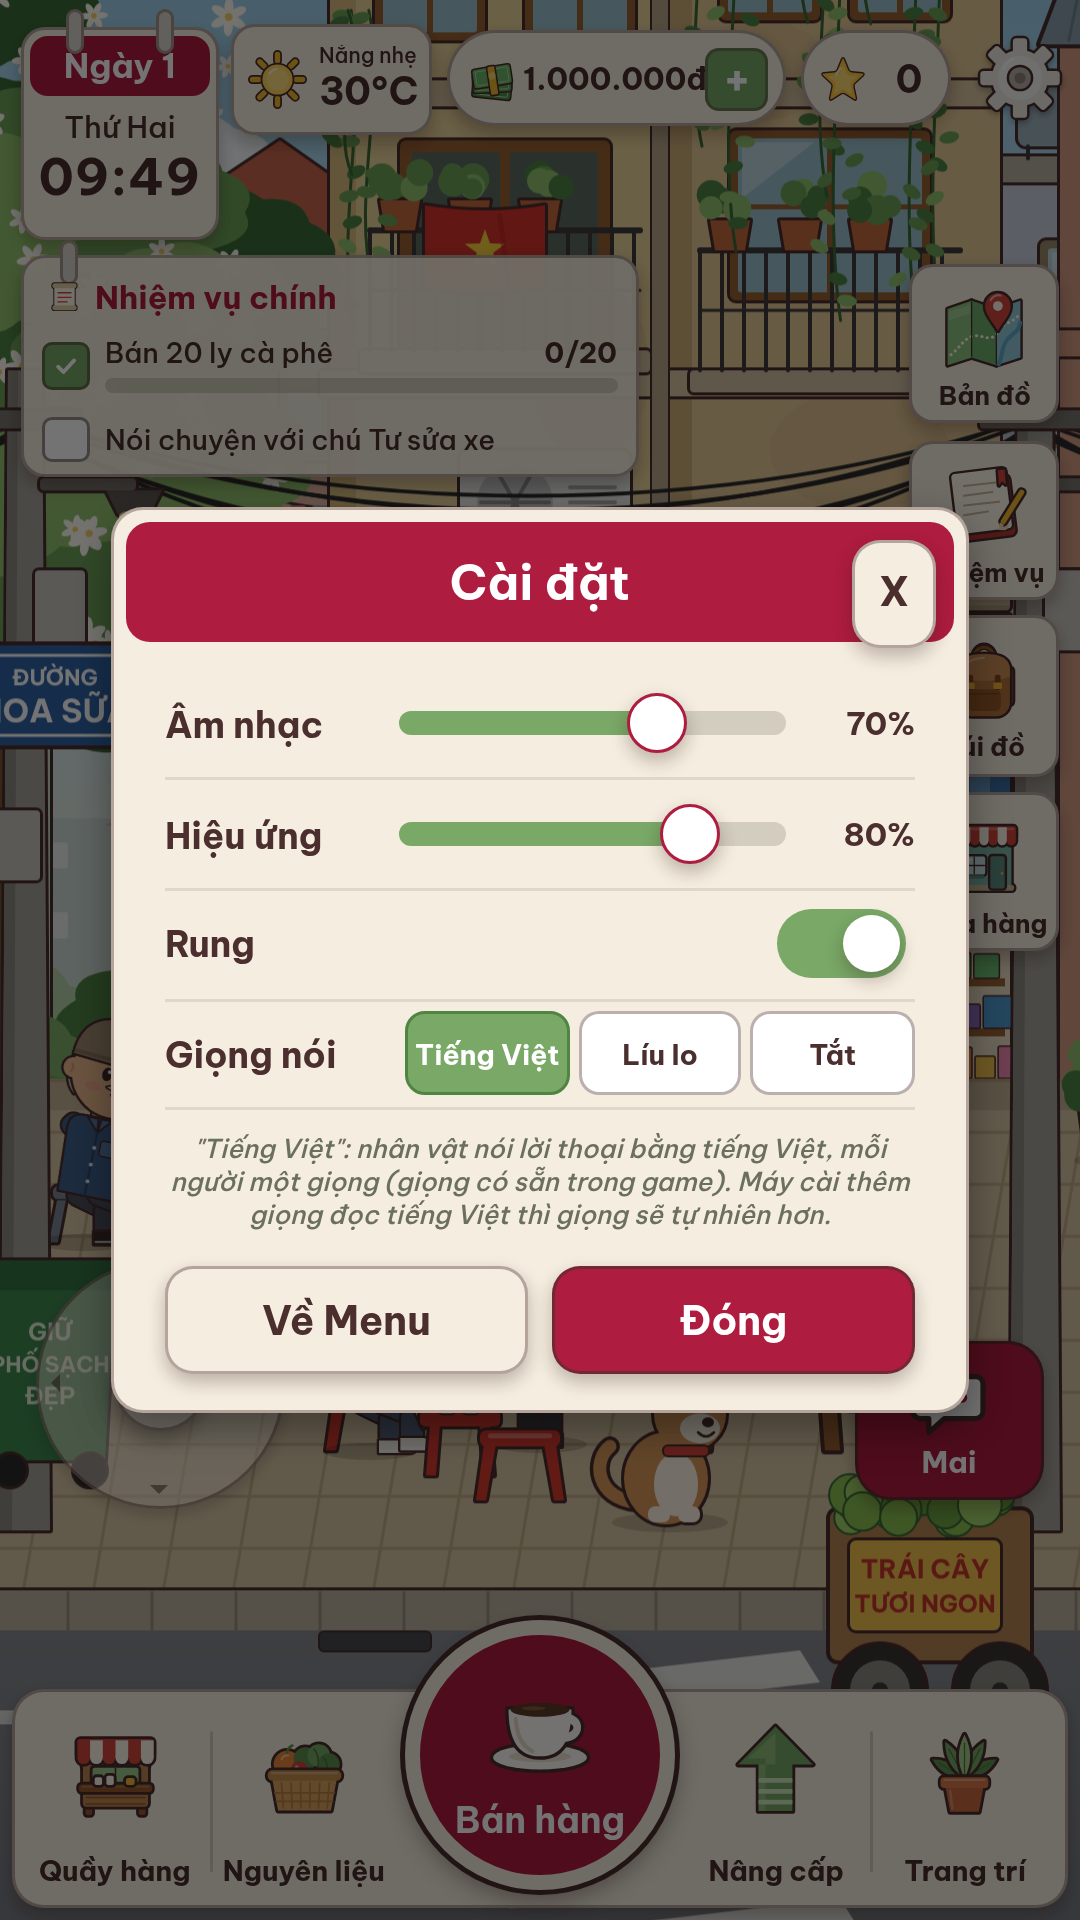
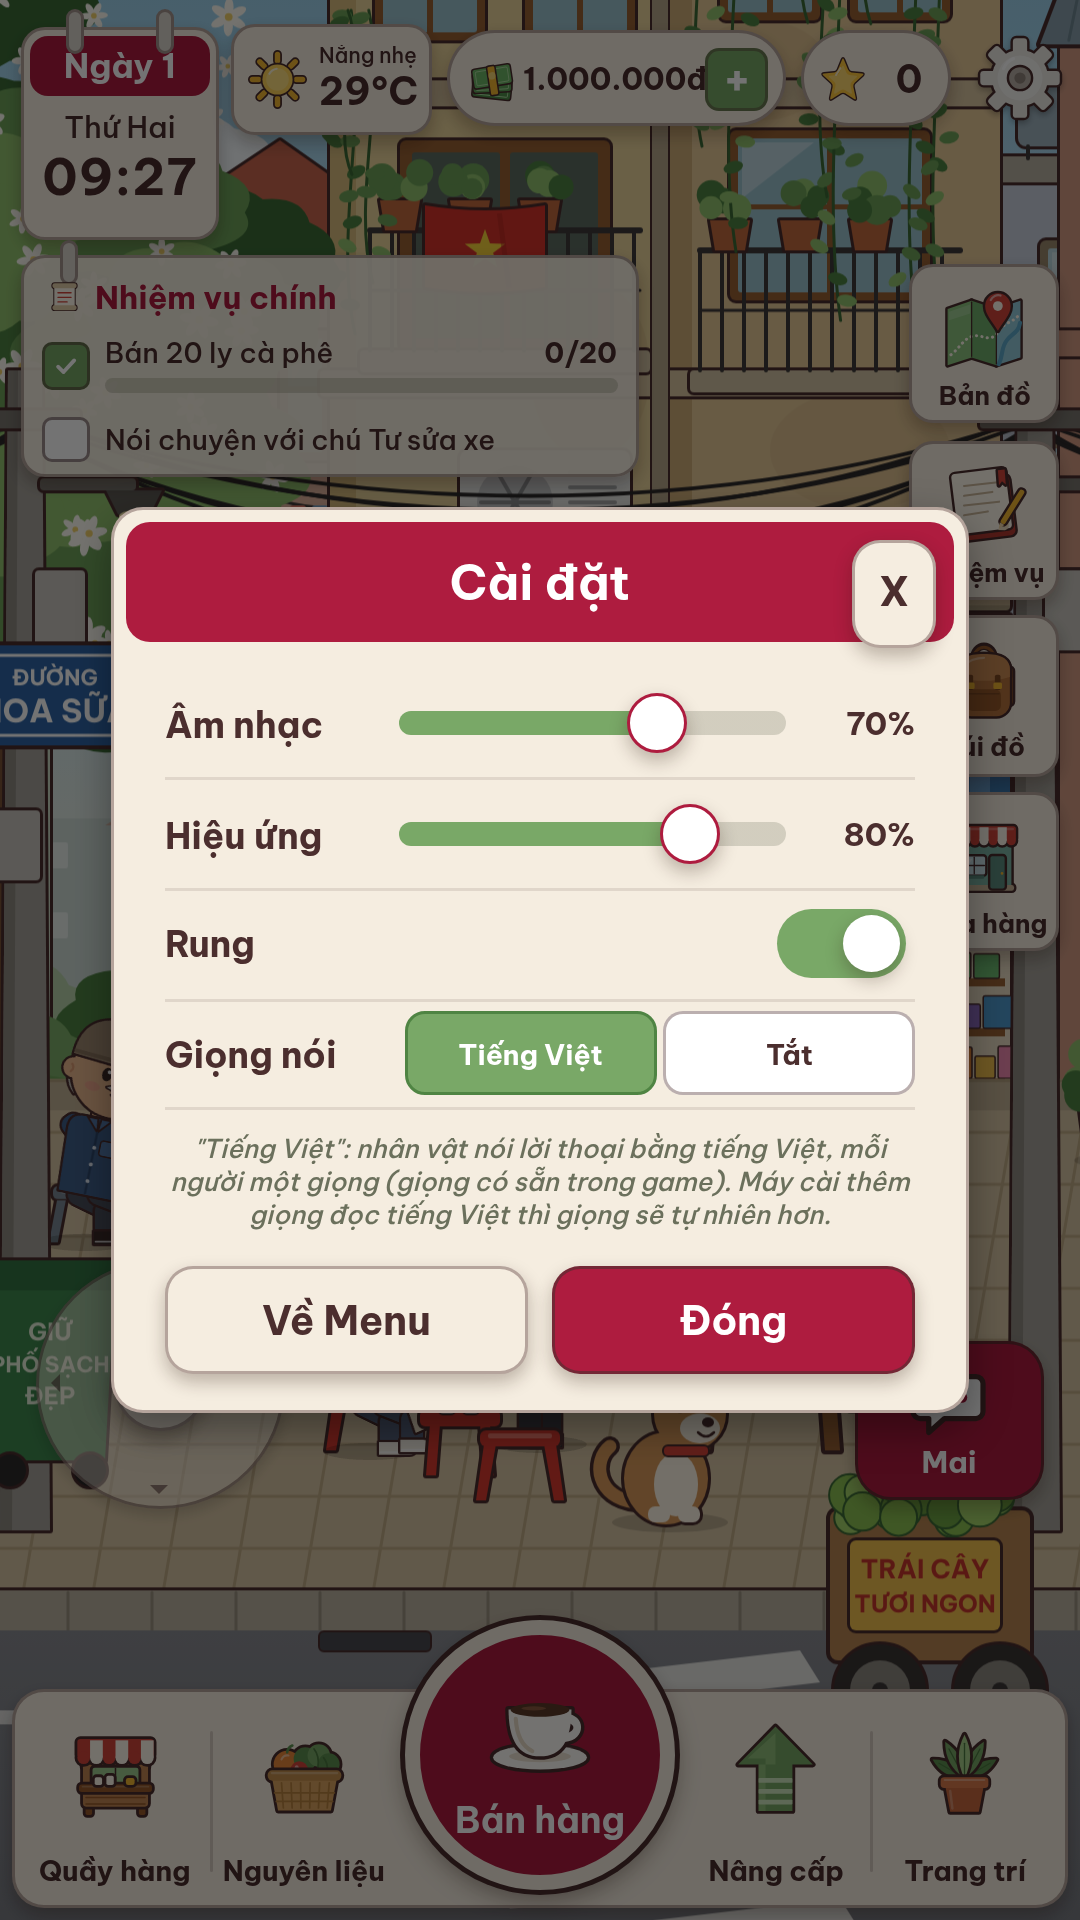
Bỏ giọng líu lo (0.10.3)
- Cài đặt › Giọng nói chỉ còn "Tiếng Việt" và "Tắt"; máy đã lưu "líu lo" tự chuyển sang Tiếng Việt
- Xoá phần tạo âm líu lo trong Voice.ts và Dialogue.ts, cập nhật test

Claude-Session: https://claude.ai/code/session_01R4Cxq2qMm8t5ahkv61PHZv

diff --git a/src/core/Voice.ts b/src/core/Voice.ts
@@ -3,14 +3,12 @@ import { VOICE_CLIPS } from "../data/voiceClips";
 
 /**
  * Lồng tiếng nhân vật (tổng hợp, không thu âm người thật):
- *  - "babble": mỗi chữ thành một âm tiết ngắn, cao độ lên xuống theo ĐÚNG DẤU THANH tiếng Việt của chữ đó,
- *    âm sắc theo nguyên âm chính; mỗi nhân vật có giọng (cao độ, độ dày, tốc độ) riêng.
  *  - "tts" (mặc định): NÓI TIẾNG VIỆT THẬT. Máy có giọng đọc tiếng Việt → dùng giọng máy (tự nhiên hơn),
  *    chỉnh cao độ/tốc độ theo nhân vật. Máy không có → phát file giọng nói đã tạo sẵn trong game
  *    (public/voice, sinh bởi tools/voice/gen.py) — nên máy nào cũng nghe được tiếng nói, không rơi về líu lo.
  *  - "off": tắt.
  */
-export type VoiceMode = "babble" | "tts" | "off";
+export type VoiceMode = "tts" | "off";
 export interface VoiceProfile { f0: number; type: OscillatorType; speed: number; ttsPitch: number; ttsRate: number }
 
 const P = (f0: number, type: OscillatorType, speed: number, ttsPitch: number, ttsRate: number): VoiceProfile => ({ f0, type, speed, ttsPitch, ttsRate });
@@ -30,32 +28,6 @@ export const VOICES: Record<string, VoiceProfile> = {
 };
 const DEFAULT = P(200, "triangle", 1, 1, 1);
 
-// đường cao độ theo dấu thanh: [thời điểm 0–1, hệ số nhân với cao độ gốc]
-const TONES: Record<string, [number, number][]> = {
-  ngang: [[0, 1], [1, 1]],
-  sac: [[0, 1], [1, 1.38]],
-  huyen: [[0, 0.95], [1, 0.74]],
-  hoi: [[0, 0.95], [0.5, 0.74], [1, 1.1]],
-  nga: [[0, 1], [0.45, 0.86], [1, 1.42]],
-  nang: [[0, 0.9], [1, 0.64]],
-};
-const MARKS: Record<string, string> = { "́": "sac", "̀": "huyen", "̉": "hoi", "̃": "nga", "̣": "nang" };
-// formant thứ nhất theo nguyên âm chính
-const FORMANT: Record<string, number> = { a: 820, e: 540, i: 320, y: 320, o: 520, u: 360 };
-
-/** Phân tích một chữ: dấu thanh + nguyên âm chính. Trả về null nếu không có chữ cái. */
-export function analyze(word: string): { tone: string; formant: number } | null {
-  const d = word.toLowerCase().normalize("NFD");
-  let tone = "ngang", vowel = "";
-  for (const ch of d) {
-    if (MARKS[ch]) tone = MARKS[ch];
-    else if (!vowel && FORMANT[ch]) vowel = ch;
-    else if (FORMANT[ch] && (ch === "a" || ch === "o" || ch === "e")) vowel = ch; // ưu tiên nguyên âm mở trong vần ghép
-  }
-  if (!/[a-zđ]/.test(d)) return null;
-  return { tone, formant: FORMANT[vowel] ?? 500 };
-}
-
 /** Mã file giọng nói của một câu (FNV-1a 32 bit trên "<id>|<câu>") — khớp tools/voice/gen.py. */
 export function clipKey(id: string, text: string): string {
   const s = id + "|" + text;
@@ -71,9 +43,9 @@ export class Voice {
   private current: AudioBufferSourceNode | null = null;
   private token = 0;
 
-  mode: () => VoiceMode = () => "babble";
+  mode: () => VoiceMode = () => "tts";
   volume: () => number = () => 0.8;
-  /** Nhật ký: "babble:chutu:sac", "tts:coba", … — cho test. */
+  /** Nhật ký: "clip:chutu", "tts:coba", … — cho test. */
   readonly log: string[] = [];
   private viVoice: SpeechSynthesisVoice | null = null;
 
@@ -87,46 +59,8 @@ export class Voice {
 
   profile(id: string): VoiceProfile { return VOICES[id] ?? DEFAULT; }
 
-  /** Một âm tiết (gọi khi chữ chạy tới đầu mỗi từ). Chỉ dùng ở chế độ babble. */
-  syllable(id: string, word: string, when = 0): void {
-    if (this.mode() !== "babble") return;
-    const a = analyze(word);
-    if (!a) return;
-    const p = this.profile(id);
-    this.log.push(`babble:${id}:${a.tone}`);
-    if (this.log.length > 300) this.log.shift();
-    const ctx = sfx.context;
-    const v = this.volume();
-    if (!ctx || ctx.state !== "running" || v <= 0) return;
-    const t0 = ctx.currentTime + 0.01 + when;
-    const dur = (a.tone === "nang" ? 0.09 : 0.14) / p.speed;
-    const o = ctx.createOscillator();
-    o.type = p.type;
-    for (const [k, mult] of TONES[a.tone]) {
-      if (k === 0) o.frequency.setValueAtTime(p.f0 * mult, t0);
-      else o.frequency.linearRampToValueAtTime(p.f0 * mult, t0 + dur * k);
-    }
-    const f = ctx.createBiquadFilter();
-    f.type = "bandpass";
-    f.frequency.value = a.formant;
-    f.Q.value = 2.2;
-    const g = ctx.createGain();
-    const peak = v * (p.type === "sine" ? 0.5 : p.type === "triangle" ? 0.42 : 0.2);
-    g.gain.setValueAtTime(0.0001, t0);
-    g.gain.exponentialRampToValueAtTime(peak, t0 + 0.015);
-    g.gain.setValueAtTime(peak, t0 + dur * 0.6);
-    g.gain.exponentialRampToValueAtTime(0.0001, t0 + dur);
-    o.connect(f).connect(g).connect(ctx.destination);
-    o.start(t0);
-    o.stop(t0 + dur + 0.03);
-  }
-
   /** Nói cả câu ngay (không gắn với chữ chạy) — dùng cho khách gọi món. */
-  say(id: string, text: string): void {
-    if (this.mode() === "tts") { this.speak(id, text); return; }
-    const p = this.profile(id);
-    text.split(/\s+/).slice(0, 12).forEach((w, i) => this.syllable(id, w, (i * 0.15) / p.speed));
-  }
+  say(id: string, text: string): void { this.speak(id, text); }
 
   /** Câu này có file giọng nói sẵn trong game không. */
   hasClip(id: string, text: string): boolean { return clipKey(id, text) in VOICE_CLIPS; }

diff --git a/tests/audio.spec.ts b/tests/audio.spec.ts
@@ -70,36 +70,16 @@ test("Âm thanh: nhạc nền theo buổi, giọng nhân vật theo dấu thanh,
   });
   expect(missing, missing.join("\n")).toEqual([]);
 
-  await G(page, "b.settings.set({ voice: 'babble' })");
-  await G(page, "(g.voice.log.length = 0, g.voice.say('chutu', 'ma má mà mả mã mạ'))");
-  expect(await G(page, "g.voice.log.slice()")).toEqual(["ngang", "sac", "huyen", "hoi", "nga", "nang"].map((t) => "babble:chutu:" + t));
   const pv = await G(page, "[g.voice.profile('chutu'), g.voice.profile('coba'), g.voice.profile('lan'), g.voice.profile('kh_ship1')]");
-  expect(pv[0].f0).toBeLessThan(pv[1].f0);   // Chú Tư trầm hơn Cô Ba
-  expect(pv[1].f0).toBeLessThan(pv[2].f0);   // Cô Ba trầm hơn Lan
-  expect(pv[3].speed).toBeGreaterThan(pv[0].speed); // shipper nói nhanh hơn Chú Tư
-  expect(new Set(pv.map((p: any) => p.f0 + p.type)).size).toBe(4);
-
-  // --- hội thoại: chữ chạy tới đâu, nhân vật "nói" tới đó ---
-  await G(page, `(() => { g.voice.log.length = 0; w.interact({ kind: "char", c: w.life.get("mai"), name: "" }); for (let i = 0; i < 60 && !g.dialogue.state.open; i++) w.step(0.5); })()`);
-  await expect.poll(async () => (await G(page, "g.voice.log.filter((x) => x.startsWith('babble:mai')).length")) as number, { timeout: 30_000 }).toBeGreaterThan(5);
-  const words = (await G(page, "g.dialogue.state.text")).split(" ").length;
-  await expect.poll(async () => (await G(page, "g.dialogue.state.typing")) as boolean, { timeout: 60_000 }).toBe(false);
-  expect(await G(page, "g.voice.log.filter((x) => x.startsWith('babble:mai')).length")).toBe(words); // mỗi chữ một âm tiết
-  await G(page, "g.dialogue.close()");
-
-  // --- khách tới quầy gọi món bằng giọng của mình ---
-  await G(page, `(() => { g.voice.log.length = 0; const c = w.customers.spawn("student", "tratac", false); c.patience = c.max = 999; for (let i = 0; i < 200 && c.state !== "waiting"; i++) w.step(0.25); })()`);
-  const said: string[] = await G(page, "g.voice.log.slice()");
-  expect(said.length).toBeGreaterThan(4);
-  expect(said.every((x) => x.startsWith("babble:kh_hs")), said.join(",")).toBe(true);
-  await G(page, "w.customers.clear()");
-
+  expect(pv[0].ttsPitch).toBeLessThan(pv[1].ttsPitch);   // Chú Tư trầm hơn Cô Ba
+  expect(pv[1].ttsPitch).toBeLessThan(pv[2].ttsPitch);   // Cô Ba trầm hơn Lan
+  expect(pv[3].ttsRate).toBeGreaterThan(pv[0].ttsRate);  // shipper nói nhanh hơn Chú Tư
   await G(page, "b.settings.set({ voice: 'tts' })");
 
   // --- Cài đặt › Giọng nói ---
   await page.locator('[data-action="settings"]').tap();
   const panel = page.locator('[data-name="SettingsPanel"]');
-  await expect(panel.locator(".seg-btn")).toHaveCount(3);
+  await expect(panel.locator(".seg-btn")).toHaveCount(2);
   const card = (await panel.locator(".card").boundingBox())!;
   expect(card.y + card.height, "Bảng cài đặt tràn màn hình").toBeLessThanOrEqual(page.viewportSize()!.height + 0.5);
   await page.screenshot({ path: `docs/screens/settings_voice_${info.project.name.replace(/[^\w]+/g, "_")}.png` });
@@ -109,8 +89,8 @@ test("Âm thanh: nhạc nền theo buổi, giọng nhân vật theo dấu thanh,
   expect(await G(page, "g.voice.mode()")).toBe("tts"); // không tự rơi về líu lo
   await expect(panel.locator('.seg-btn[data-voice="tts"]')).toHaveClass(/on/);
   if (!tts) await expect(panel).toContainText("giọng có sẵn trong game");
-  await panel.locator('.seg-btn[data-voice="babble"]').tap();
-  expect(await G(page, "[b.settings.value.voice, g.voice.mode()]")).toEqual(["babble", "babble"]);
+  await expect(panel.locator('.seg-btn[data-voice="babble"]')).toHaveCount(0); // đã bỏ líu lo
+  await expect(panel).not.toContainText("Líu lo");
   // tắt giọng → không còn âm tiết, chữ chạy kêu "blip" như cũ
   await panel.locator('.seg-btn[data-voice="off"]').tap();
   await expect(panel.locator('.seg-btn[data-voice="off"]')).toHaveClass(/on/);

diff --git a/src/core/settings.ts b/src/core/settings.ts
@@ -8,10 +8,10 @@ export interface Settings {
   sfx: number;
   vibration: boolean;
   /** Giọng nhân vật: nói tiếng Việt bằng giọng đọc của máy / líu lo theo dấu thanh / tắt. */
-  voice: "babble" | "tts" | "off";
+  voice: "tts" | "off";
 }
 
-export const DEFAULT_SETTINGS: Settings = { music: 70, sfx: 80, vibration: true, voice: "tts" }; // mặc định nói tiếng Việt bằng giọng đọc của máy; máy không có thì tự dùng "líu lo"
+export const DEFAULT_SETTINGS: Settings = { music: 70, sfx: 80, vibration: true, voice: "tts" }; // mặc định nói tiếng Việt bằng giọng đọc của máy; máy không có thì dùng file giọng nói có sẵn
 const KEY = "gpv.settings";
 
 function clamp(v: unknown, d: number): number {
@@ -30,7 +30,7 @@ export class SettingsService {
       music: clamp(raw.music, DEFAULT_SETTINGS.music),
       sfx: clamp(raw.sfx, DEFAULT_SETTINGS.sfx),
       vibration: typeof raw.vibration === "boolean" ? raw.vibration : DEFAULT_SETTINGS.vibration,
-      voice: raw.voice === "tts" || raw.voice === "off" || raw.voice === "babble" ? raw.voice : DEFAULT_SETTINGS.voice,
+      voice: raw.voice === "off" ? "off" : "tts" // bản cũ lưu "babble" (líu lo, đã bỏ) → Tiếng Việt,
     };
   }
 

diff --git a/src/screens/screens.ts b/src/screens/screens.ts
@@ -301,8 +301,8 @@ export class SettingsPanel extends Modal {
     const vr = el("div", "set-row", this.body);
     el("span", "set-label", vr, "Giọng nói");
     const seg = el("div", "seg", vr);
-    const opts: ["babble" | "tts" | "off", string][] = [["tts", "Tiếng Việt"], ["babble", "Líu lo"], ["off", "Tắt"]];
-    const NOTE_OK = "\"Tiếng Việt\": nhân vật nói lời thoại bằng tiếng Việt, mỗi người một giọng (dùng giọng đọc tiếng Việt của máy). \"Líu lo\": tiếng ê a vui tai do game tự tạo.";
+    const opts: ["tts" | "off", string][] = [["tts", "Tiếng Việt"], ["off", "Tắt"]];
+    const NOTE_OK = "\"Tiếng Việt\": nhân vật nói lời thoại bằng tiếng Việt, mỗi người một giọng (dùng giọng đọc tiếng Việt của máy).";
     const NOTE_NO = "\"Tiếng Việt\": nhân vật nói lời thoại bằng tiếng Việt, mỗi người một giọng (giọng có sẵn trong game). Máy cài thêm giọng đọc tiếng Việt thì giọng sẽ tự nhiên hơn.";
     const btns = opts.map(([v, label]) => {
       const b = el("button", "seg-btn", seg, label);

diff --git a/src/ui/Dialogue.ts b/src/ui/Dialogue.ts
@@ -87,10 +87,7 @@ export class Dialogue {
     this.timer = window.setInterval(() => {
       const target = Math.min(n.text.length, Math.max(this.shown + 1, Math.floor(((performance.now() - t0) / 1000) * CPS)));
       for (let i = this.shown; i < target; i++) {
-        // lồng tiếng: tới đầu mỗi từ thì phát một âm tiết theo giọng người đang nói
-        if (voice.mode() === "babble") {
-          if (i === 0 || n.text[i - 1] === " ") voice.syllable(me ? "player" : this.speaker.id, n.text.slice(i).split(" ")[0]);
-        } else if (voice.mode() === "off" && i % 3 === 0 && n.text[i] !== " ") sfx.play("blip");
+        if (voice.mode() === "off" && i % 3 === 0 && n.text[i] !== " ") sfx.play("blip");
       }
       this.shown = target;
       this.textEl.textContent = n.text.slice(0, this.shown);

diff --git a/public/sw.js b/public/sw.js
@@ -1,6 +1,6 @@
 // Service worker Góc Phố Việt — chơi lại được khi mất mạng.
 // Đổi VERSION mỗi lần phát hành để người chơi nhận bản mới.
-const VERSION = "gpv-phase10-3";
+const VERSION = "gpv-phase10-4";
 const CORE = ["./", "./index.html", "./manifest.webmanifest", "./icons/icon-192.png", "./icons/icon-512.png",
   "./fonts/BeVietnamPro-Bold.woff2", "./fonts/BeVietnamPro-Medium.woff2"];
 

diff --git a/src/version.ts b/src/version.ts
@@ -1,2 +1,2 @@
 /** Phiên bản hiển thị ở Menu chính. Tăng mỗi phase. */
-export const VERSION = "0.10.2 · Phase 10";
+export const VERSION = "0.10.3 · Phase 10";
